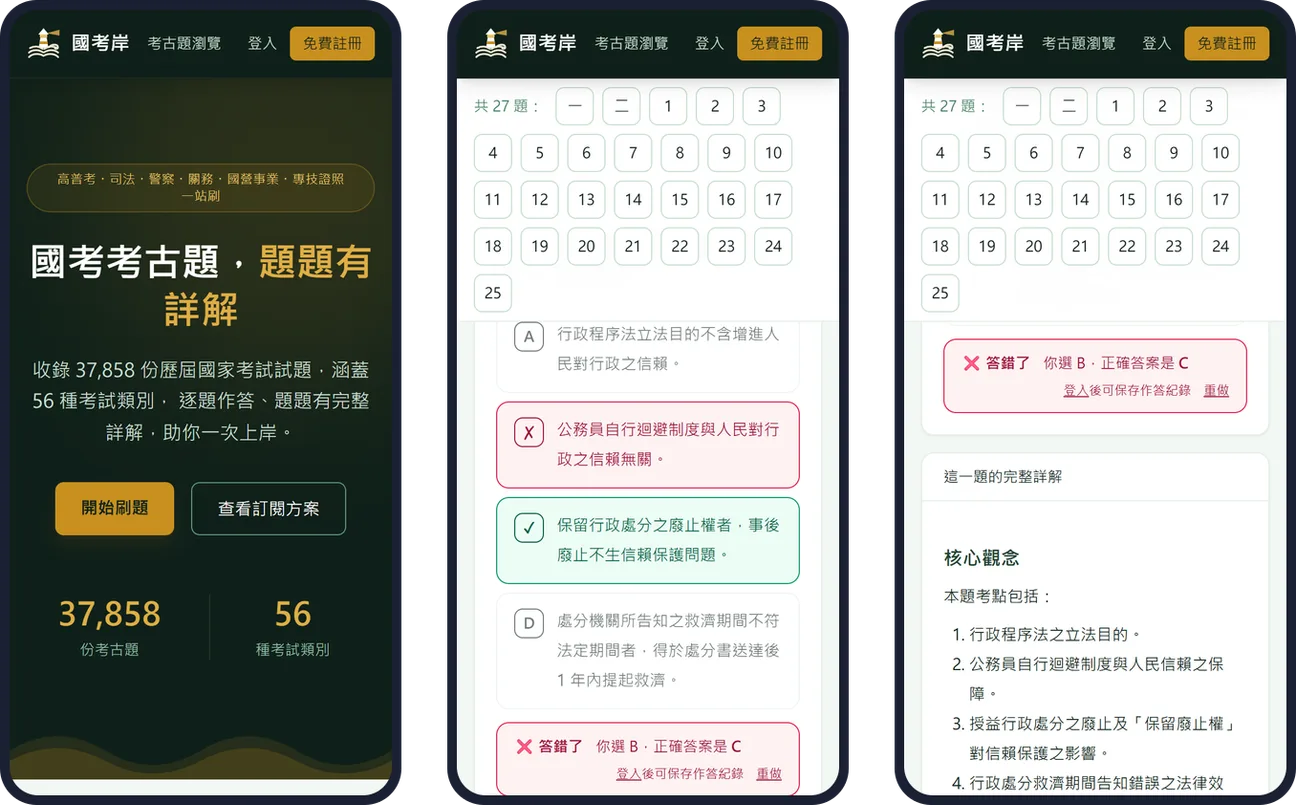
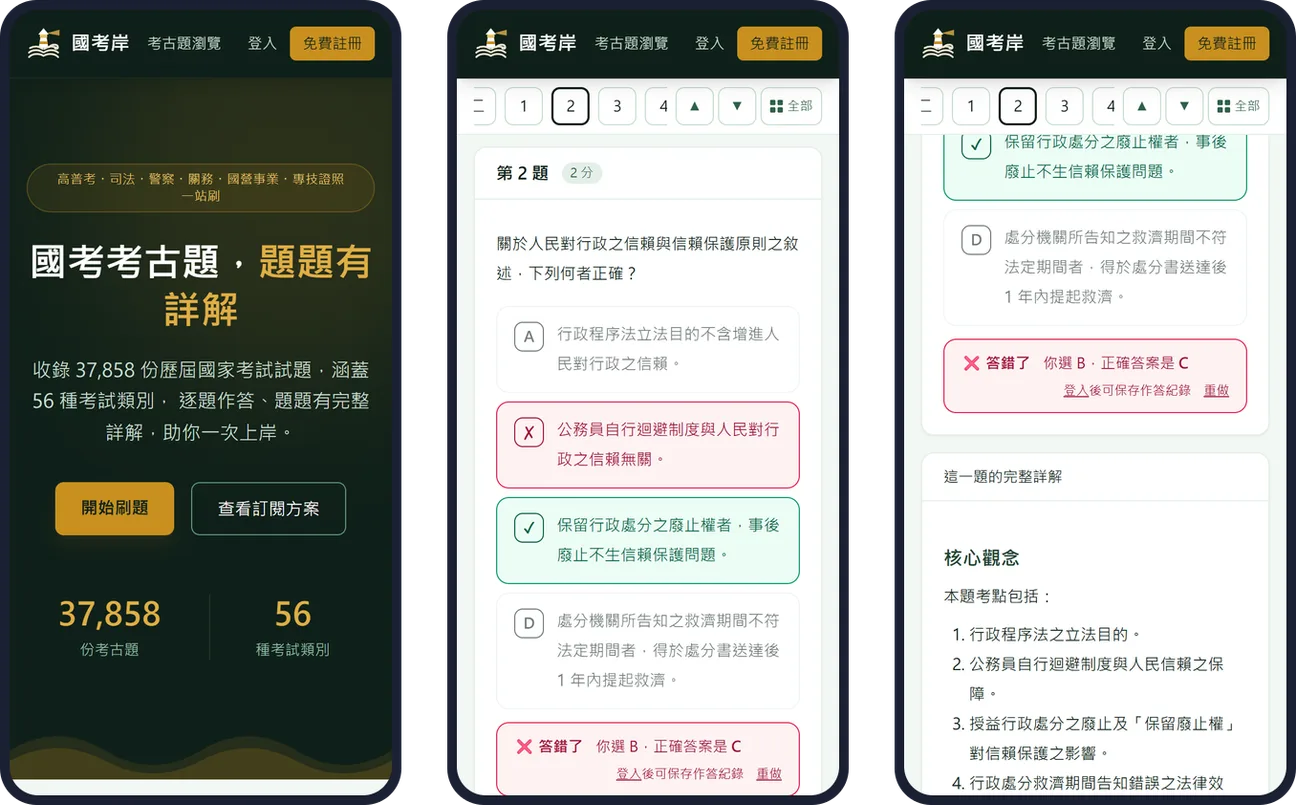
手機題號列改版：更新說明文字與手機／平板截圖
手機上題號列收成一行可左右滑、▲▼ 切換上下題、「全部」展開完整題號，
「題號列自動換行」的舊說法一併改掉。

Changed region(s): [[0.7099, 0.0932, 0.9877, 0.3727], [0.3704, 0.1863, 0.6173, 0.3727], [0.3704, 0.0932, 0.6481, 0.1553]]

diff --git a/index.html b/index.html
@@ -272,7 +272,7 @@
         <img width="1600" height="1125" src="images/practice-nav.webp" alt="國考岸考卷頁：115 年高考三級一般行政《行政法》，上方是可一鍵跳題的題號列，下方是第一題申論題" fetchpriority="high">
       </div>
       <div class="phone">
-        <img width="720" height="1560" src="images/phone-practice.webp" alt="同一份考卷在手機上的畫面，題號列自動換行" loading="lazy">
+        <img width="720" height="1560" src="images/phone-practice.webp" alt="同一份考卷在手機上的畫面，題號列收成一行" loading="lazy">
       </div>
     </div>
   </div>
@@ -446,7 +446,7 @@
   <div class="wrap">
     <h2>手機、平板都順手，通勤也能刷一題</h2>
     <p class="lead">
-      版面會跟著螢幕調整：題號列自動換行、選項按鈕夠大好點、上傳照片直接開相機，直拿橫拿都能用。
+      版面會跟著螢幕調整：手機上題號列收成一行可以左右滑，▲▼ 切換上下題，按「全部」展開完整題號；選項按鈕夠大好點、上傳照片直接開相機，直拿橫拿都能用。
       上班族下班後、午休空檔，打開就能接著練。
     </p>
     <div class="strip">

diff --git a/README.md b/README.md
@@ -53,7 +53,7 @@
 
 ### 手機、平板都順手
 
-版面會跟著螢幕調整：題號列自動換行、選項按鈕夠大好點、上傳照片直接開相機。
+版面會跟著螢幕調整：手機上題號列收成一行可以左右滑，▲▼ 切換上下題，按「全部」展開完整題號；選項按鈕夠大好點、上傳照片直接開相機。
 
 ![國考岸在手機上的三個畫面](images/mobile.webp)
 
